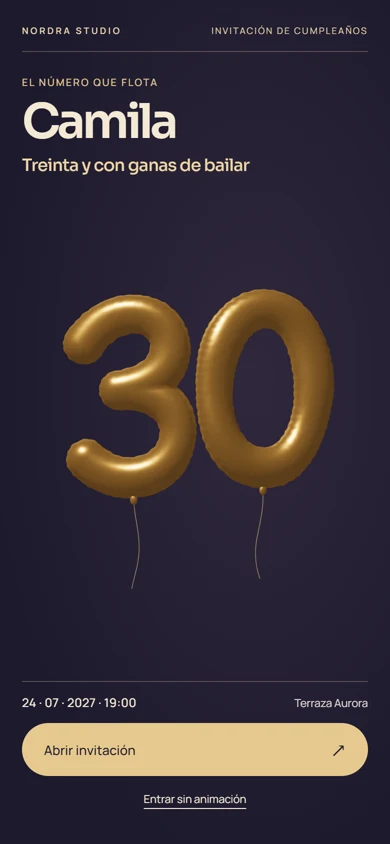
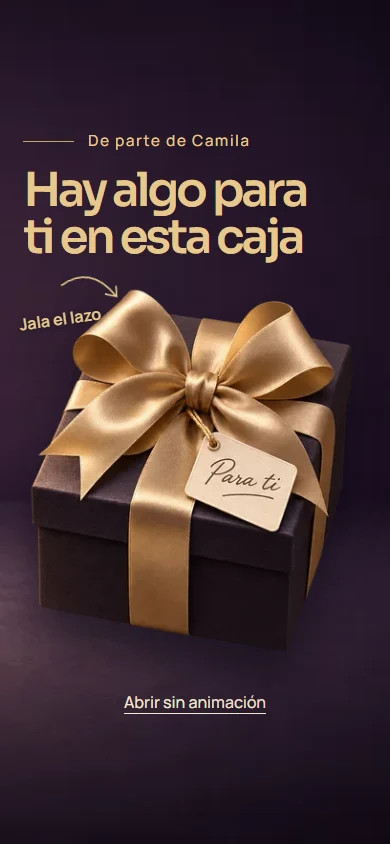
Actualiza las portadas comerciales y la imagen para compartir Camila 30

diff --git a/cumpleanos.html b/cumpleanos.html
@@ -20,7 +20,7 @@
 
 
 
-<section class="scene entry business invitations occasion-page theme-birthday" data-view="cumpleanos" aria-labelledby="cumpleanos-occasion-title"><nav class="mobile-route" aria-label="Accesos rápidos de esta página"><a href="#cumpleanos-event-experience">Muestra</a><a href="#cumpleanos-planes-eventos">Planes</a>{{mobile:whatsapp}}</nav><nav class="occasion-path" aria-label="Tipo de invitación"><a href="/invitaciones" data-go="invitaciones">Invitaciones</a><a href="/bodas" data-go="bodas">Bodas</a><a href="/cumpleanos" data-go="cumpleanos" aria-current="page">Cumpleaños</a><a href="/eventos" data-go="eventos">Eventos</a><a href="/temporada" data-go="temporada">Temporada</a></nav><div class="occasion-hero birthday-hero"><div class="occasion-kicker"><p class="eyebrow">CUMPLEAÑOS, POR NORDRA</p><button class="business-motion-control" type="button" data-business-toggle aria-pressed="false">Pausar movimiento</button></div><h1 id="cumpleanos-occasion-title"><span class="business-title-line">Hay mucho</span> <span class="business-title-line">que celebrar</span></h1><div class="occasion-hero-live showcase-live"><div class="live-phone nordra-phone"><div class="live-screen"><img src="/artwork/birthday-noche/camila-portada-780.webp" srcset="/artwork/birthday-noche/camila-portada-390.webp 390w, /artwork/birthday-noche/camila-portada-780.webp 780w" sizes="(max-width:700px) 180px, 265px" width="780" height="1688" alt="Portada de Camila 30 con los globos dorados del número 30" loading="eager" fetchpriority="high" decoding="async"></div></div><p class="live-actions"><a class="live-try" href="/invitaciones/camila-30/" data-live-try="Invitación de Camila 30">Pruébala aquí <span aria-hidden="true">↗</span></a><span class="live-note">Un diseño de Nordra</span></p></div><div class="occasion-lead"><p>De los cinco a los cincuenta, tus XV o tu aniversario: la invitación lleva tu estilo.</p><a class="horizon-button" href="#cumpleanos-event-experience">Encuentra tu estilo <span aria-hidden="true">↓</span></a><a class="options-compare" href="#cumpleanos-planes-eventos">Ver paquetes <span aria-hidden="true">↗</span></a></div></div><section class="home-continuation wedding-sample occasion-stage" id="cumpleanos-respuesta" aria-labelledby="cumpleanos-response-title">
+<section class="scene entry business invitations occasion-page theme-birthday" data-view="cumpleanos" aria-labelledby="cumpleanos-occasion-title"><nav class="mobile-route" aria-label="Accesos rápidos de esta página"><a href="#cumpleanos-event-experience">Muestra</a><a href="#cumpleanos-planes-eventos">Planes</a>{{mobile:whatsapp}}</nav><nav class="occasion-path" aria-label="Tipo de invitación"><a href="/invitaciones" data-go="invitaciones">Invitaciones</a><a href="/bodas" data-go="bodas">Bodas</a><a href="/cumpleanos" data-go="cumpleanos" aria-current="page">Cumpleaños</a><a href="/eventos" data-go="eventos">Eventos</a><a href="/temporada" data-go="temporada">Temporada</a></nav><div class="occasion-hero birthday-hero"><div class="occasion-kicker"><p class="eyebrow">CUMPLEAÑOS, POR NORDRA</p><button class="business-motion-control" type="button" data-business-toggle aria-pressed="false">Pausar movimiento</button></div><h1 id="cumpleanos-occasion-title"><span class="business-title-line">Hay mucho</span> <span class="business-title-line">que celebrar</span></h1><div class="occasion-hero-live showcase-live"><div class="live-phone nordra-phone"><div class="live-screen"><img src="/artwork/birthday-noche/camila-portada-780.webp" srcset="/artwork/birthday-noche/camila-portada-390.webp 390w, /artwork/birthday-noche/camila-portada-780.webp 780w" sizes="(max-width:700px) 180px, 265px" width="780" height="1688" alt="Portada de Camila 30 con la caja de regalo y el lazo dorado" loading="eager" fetchpriority="high" decoding="async"></div></div><p class="live-actions"><a class="live-try" href="/invitaciones/camila-30/" data-live-try="Invitación de Camila 30">Pruébala aquí <span aria-hidden="true">↗</span></a><span class="live-note">Un diseño de Nordra</span></p></div><div class="occasion-lead"><p>De los cinco a los cincuenta, tus XV o tu aniversario: la invitación lleva tu estilo.</p><a class="horizon-button" href="#cumpleanos-event-experience">Encuentra tu estilo <span aria-hidden="true">↓</span></a><a class="options-compare" href="#cumpleanos-planes-eventos">Ver paquetes <span aria-hidden="true">↗</span></a></div></div><section class="home-continuation wedding-sample occasion-stage" id="cumpleanos-respuesta" aria-labelledby="cumpleanos-response-title">
  <span class="occasion-anchor" id="cumpleanos-event-experience"></span><span class="occasion-anchor" id="event-experience"></span>
  <div class="wedding-direction"><h2 id="cumpleanos-response-title">Así llega cada respuesta</h2><p>Muestra interactiva · datos ficticios</p>
  <div class="wedding-switch" role="tablist" aria-label="Recorrido de la muestra" aria-orientation="vertical">
@@ -29,7 +29,7 @@
  <div class="wedding-links"><a href="/invitaciones/camila-30/">Abrir la invitación completa ↗</a><a href="/panel-cumple.html">Probar el panel de muestra ↗</a></div></div>
  <div class="wedding-stage" id="cumpleanos-panel-muestra" role="tabpanel" aria-labelledby="cumpleanos-tab-invitacion" data-step="cover">
  <div class="wedding-devices"><a class="wedding-dashboard" href="/panel-cumple.html" aria-label="Probar el panel de muestra"><img src="/artwork/birthday-dashboard-preview/dashboard-es-760.webp" srcset="/artwork/birthday-dashboard-preview/dashboard-es-760.webp 760w, /artwork/birthday-dashboard-preview/dashboard-es-1280.webp 1280w" sizes="(max-width:700px) 86vw, 55vw" alt="Panel de Camila 30" loading="lazy"></a>
- <div class="wedding-phone"><img src="/artwork/birthday-noche/camila-portada-390.webp" srcset="/artwork/birthday-noche/camila-portada-390.webp 390w, /artwork/birthday-noche/camila-portada-780.webp 780w" sizes="(max-width:700px) 43vw, 318px" width="390" height="844" loading="lazy" alt="Portada de Camila 30 con los globos dorados del número 30"></div></div>
+ <div class="wedding-phone"><img src="/artwork/birthday-noche/camila-portada-390.webp" srcset="/artwork/birthday-noche/camila-portada-390.webp 390w, /artwork/birthday-noche/camila-portada-780.webp 780w" sizes="(max-width:700px) 43vw, 318px" width="390" height="844" loading="lazy" alt="Portada de Camila 30 con la caja de regalo y el lazo dorado"></div></div>
  <p class="wedding-credit">Camila 30 · Un diseño de Nordra</p></div></section><section class="home-continuation occasion-plans" id="cumpleanos-planes-eventos"><span class="occasion-anchor" id="planes-eventos"></span>
  <h2 id="cumpleanos-decision-title">Aurora y Boreal</h2><p>Precios de apertura y regulares en MXN, con IVA incluido. Pago único.</p>
  <div class="occasion-plan-grid">{{occasion:cumpleanos:plans}}</div><div class="occasion-extra"><details><summary>Servicios adicionales<span aria-hidden="true">+</span></summary><p>Lo que acordamos en tu paquete está incluido: tus fotos, enlaces a mapas, el formulario y el panel de invitados. Puedes compartir tu enlace manualmente por WhatsApp sin un cargo adicional de Nordra. Si quieres sumar mensajes automáticos, venta de entradas o alguna integración de pago, primero te explicamos los costos de configuración y las comisiones del proveedor. Tú decides si seguimos adelante antes de contratar o activar algo.</p></details></div></section><section class="home-continuation audience-faq" id="cumpleanos-preguntas" aria-labelledby="cumpleanos-faq-title"><div><h2 id="cumpleanos-faq-title">Preguntas frecuentes</h2></div><div class="faq-list">{{occasion:cumpleanos:faq}}</div></section><section class="home-continuation studio-process process-roadmap" id="cumpleanos-proceso-invitaciones" aria-labelledby="cumpleanos-invitation-process-title">

diff --git a/invitaciones.html b/invitaciones.html
@@ -24,7 +24,7 @@
 <h2 id="inv-directory-title">¿Qué celebras?</h2>
 <div class="inv-occasions">
 <div><a href="/bodas" data-go="bodas">Bodas <span aria-hidden="true">↗</span></a><p>Una invitación con su historia.</p></div>
-<div class="inv-birthday-noche"><a href="/cumpleanos" data-go="cumpleanos">Cumpleaños <span aria-hidden="true">↗</span></a><a class="inv-sample" href="/invitaciones/camila-30/">Ver Camila 30 ↗</a><img class="inv-birthday-art" src="/artwork/numero-que-flota/camila-390.webp" srcset="/artwork/numero-que-flota/camila-390.webp 390w, /artwork/numero-que-flota/camila-780.webp 780w" sizes="100px" width="100" height="100" loading="lazy" alt=""></div>
+<div class="inv-birthday-noche"><a href="/cumpleanos" data-go="cumpleanos">Cumpleaños <span aria-hidden="true">↗</span></a><a class="inv-sample" href="/invitaciones/camila-30/">Ver Camila 30 ↗</a><img class="inv-birthday-art" src="/artwork/birthday-caja/cerrada-360.webp" srcset="/artwork/birthday-caja/cerrada-360.webp 360w, /artwork/birthday-caja/cerrada-660.webp 660w" sizes="100px" width="100" height="100" loading="lazy" alt=""></div>
 <div><a href="/eventos" data-go="eventos">Eventos <span aria-hidden="true">↗</span></a><a class="inv-sample" href="/invitaciones/conexion-27/">Ver Conexión 27 ↗</a></div>
 <div><a href="/temporada" data-go="temporada">Temporada <span aria-hidden="true">↗</span></a><p>Posadas y fin de año.</p></div>
 </div></section>
